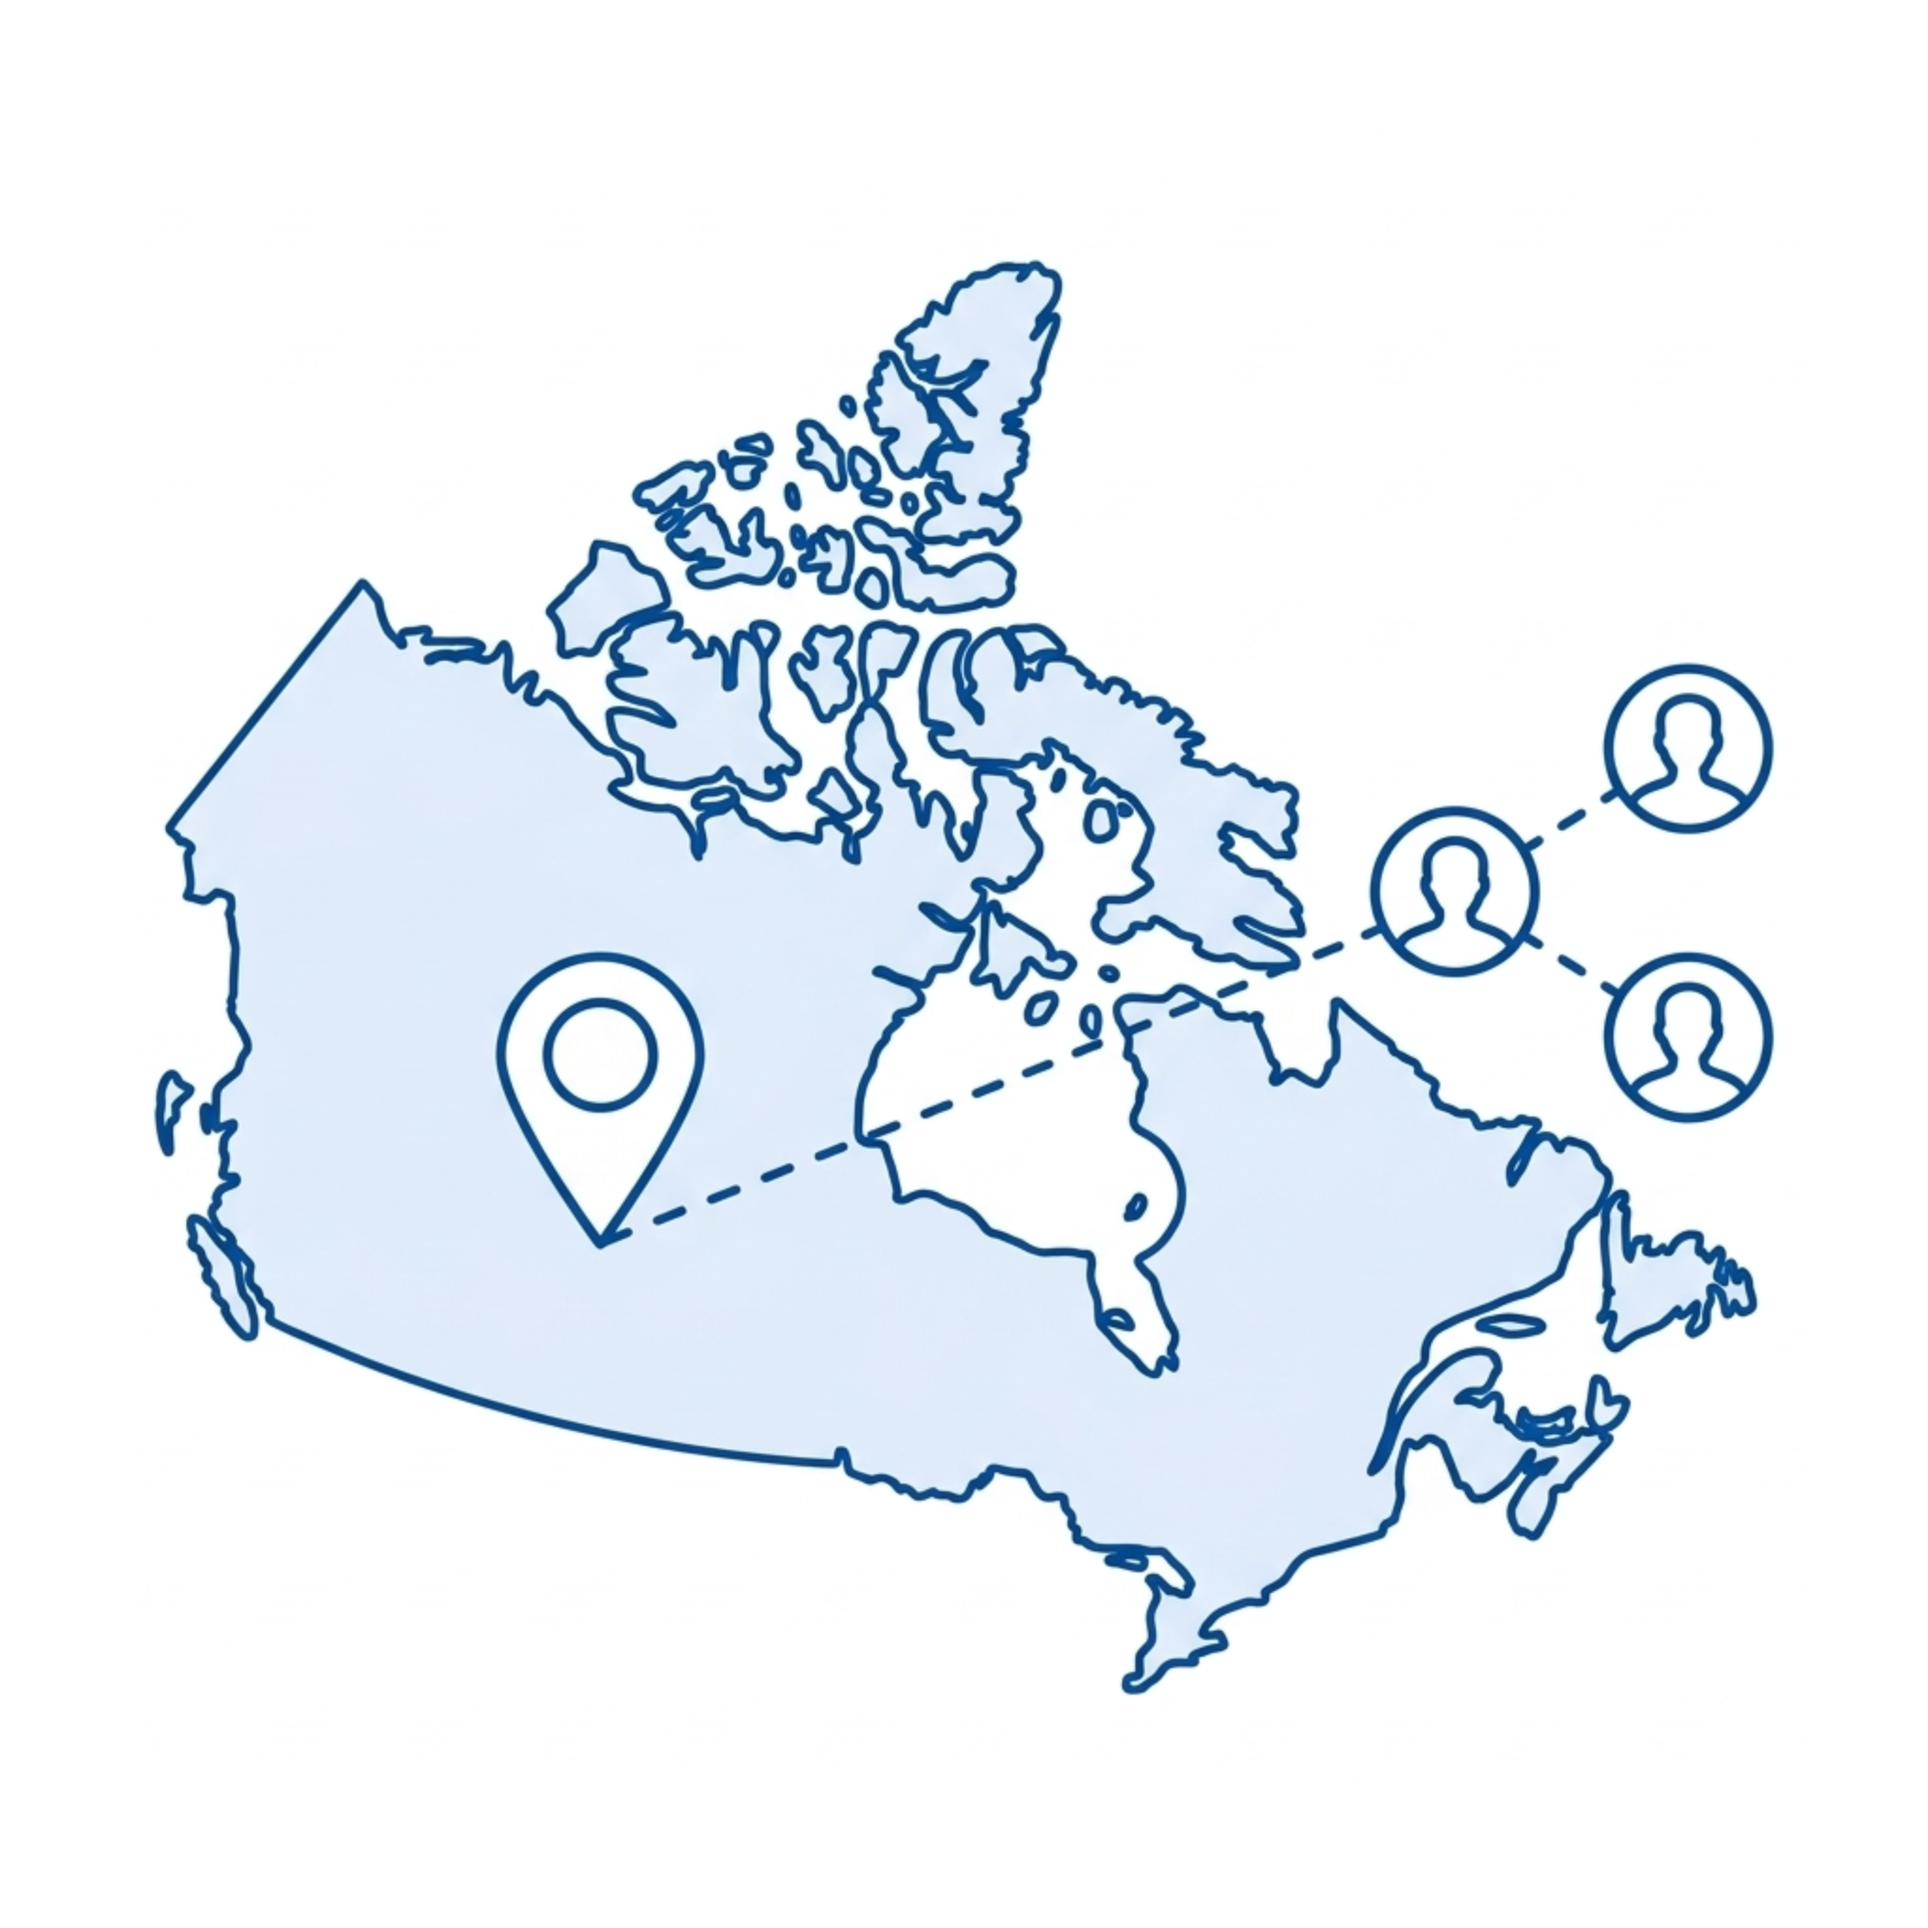
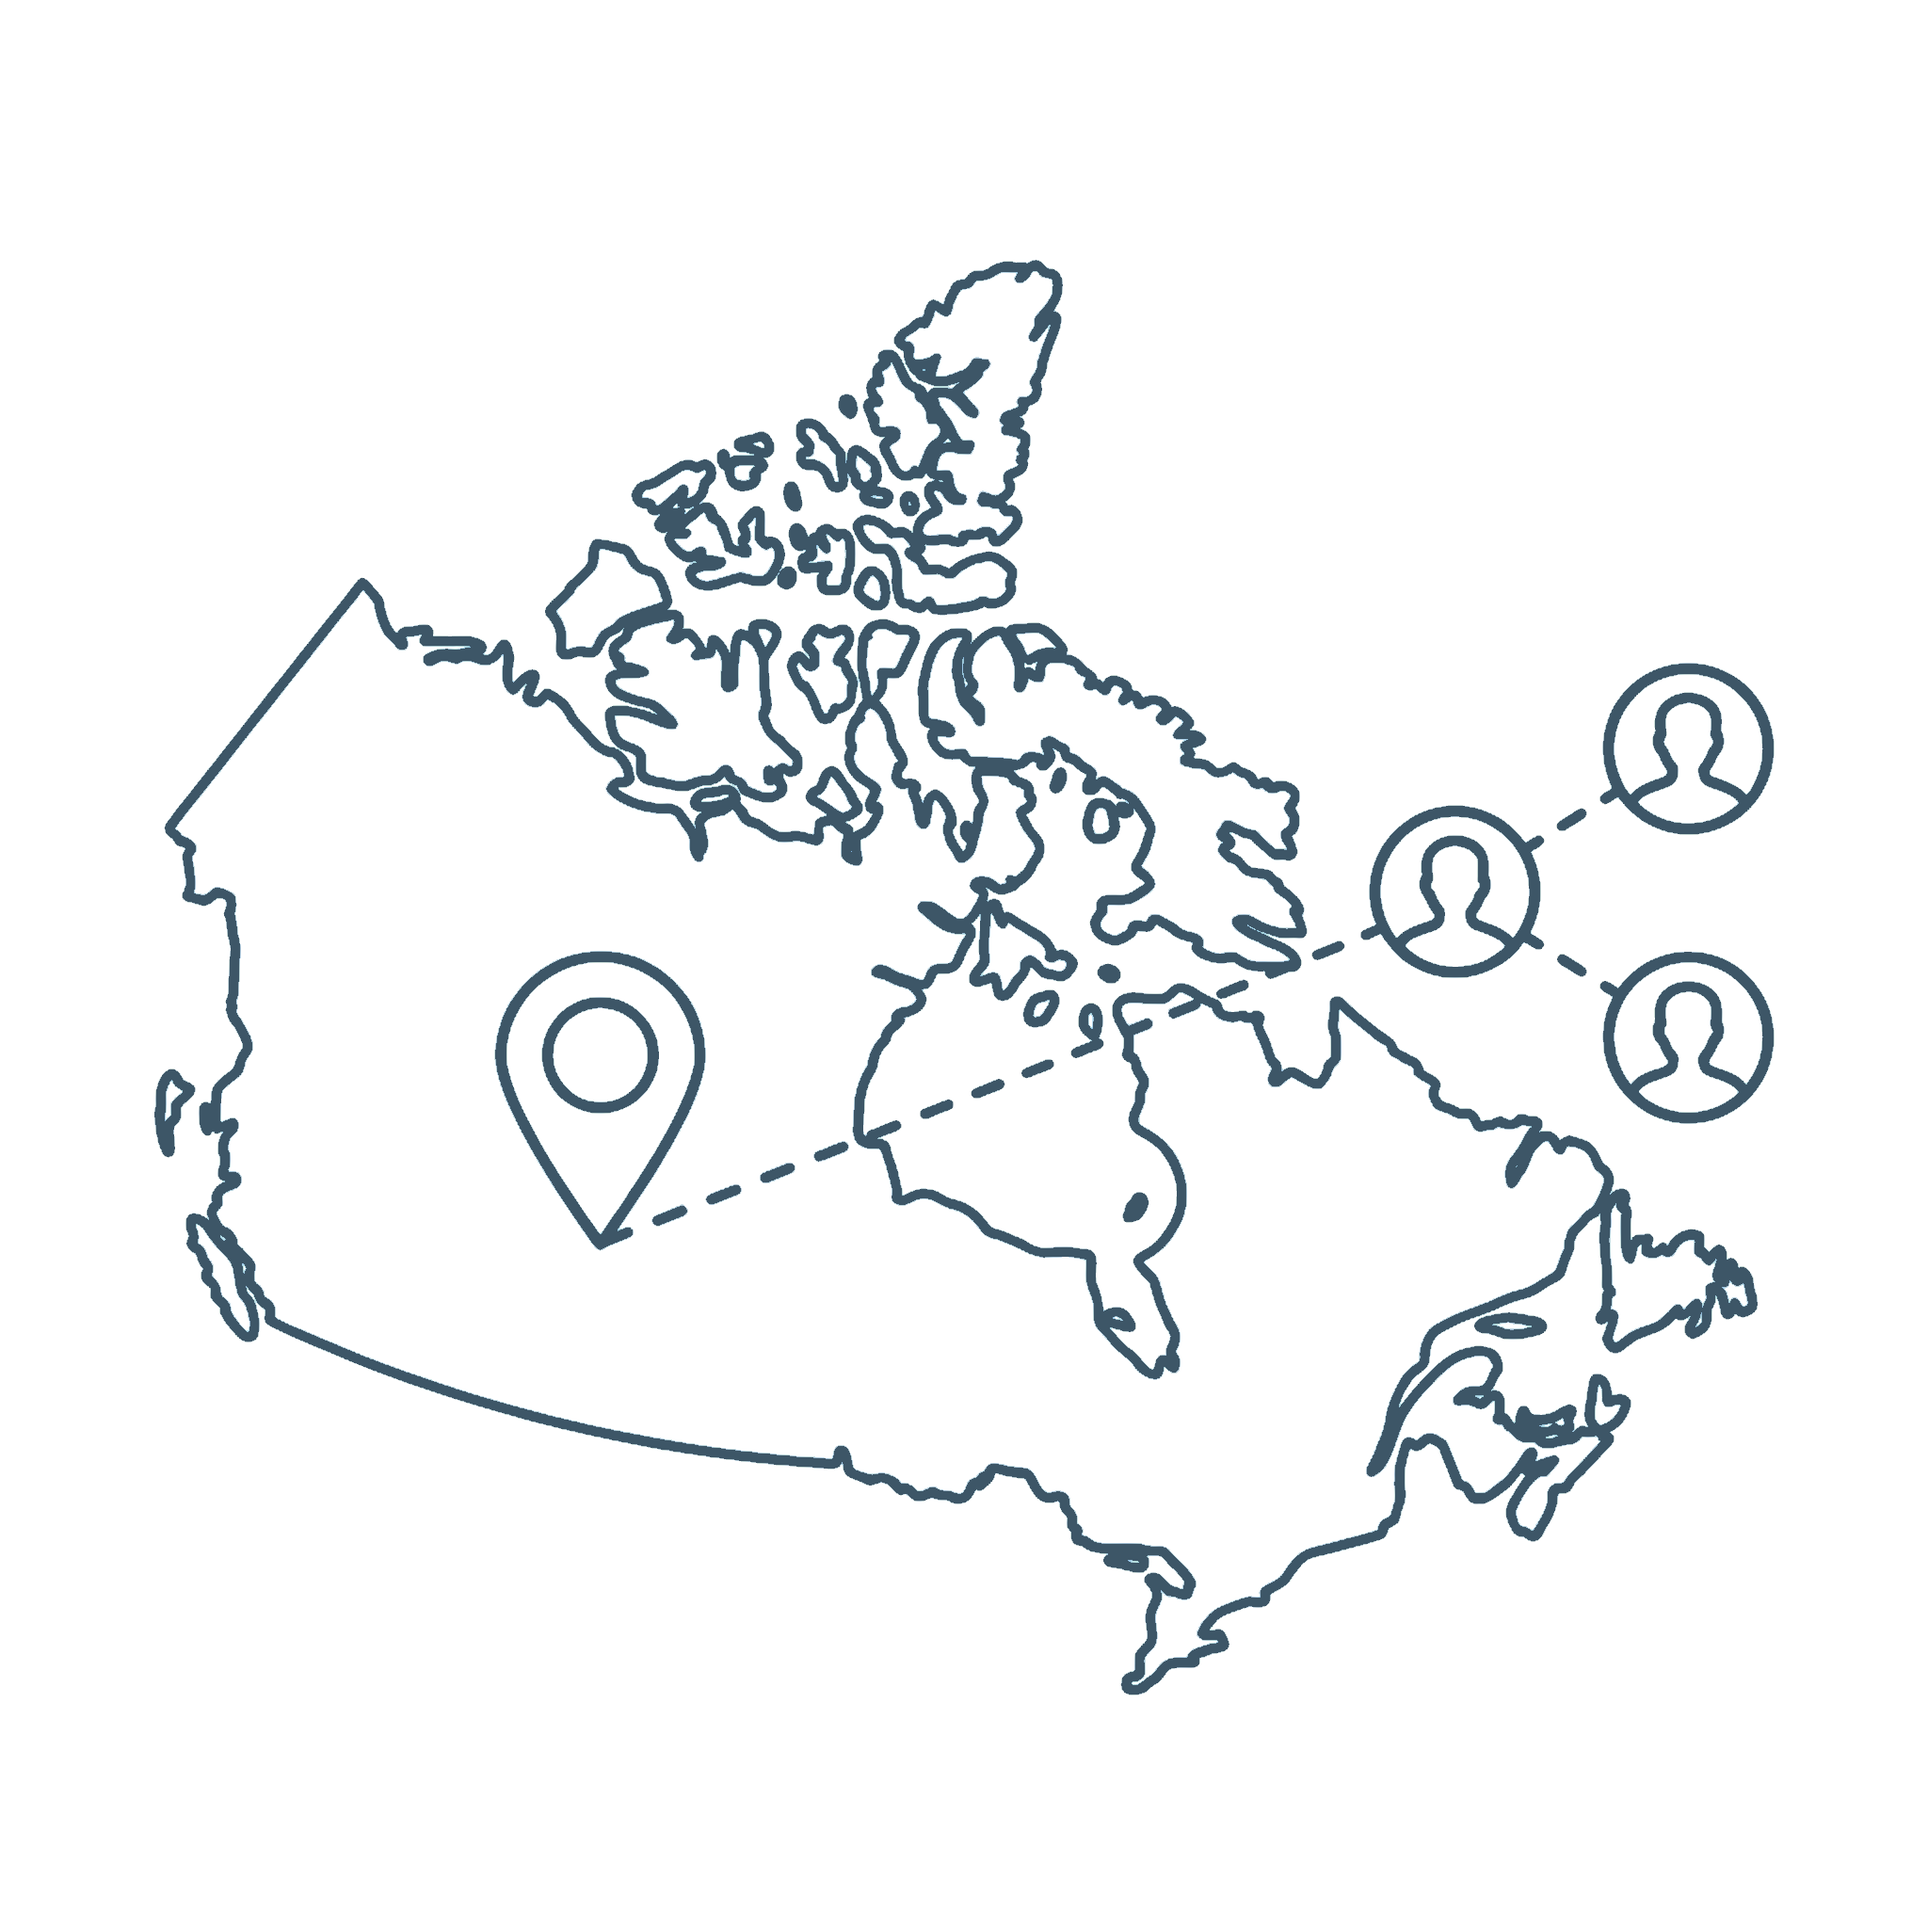
chore: update how-it-works illustrations and stats tone

Changed region(s): [[0.0625, 0.125, 0.9375, 0.875], [0.8125, 0.4688, 0.9375, 0.5938]]

diff --git a/client/src/components/map-stats.tsx b/client/src/components/map-stats.tsx
@@ -40,7 +40,7 @@ export function MapStats() {
                         <AnimatedCounter
                             end={stats.stores}
                             duration={2000}
-                            className="font-sans text-[52px] md:text-[81px] font-semibold tracking-tight tabular-nums text-[#0057B7] leading-none opacity-70"
+                            className="font-sans text-[52px] md:text-[81px] font-semibold tracking-tight tabular-nums text-[#0057B7] leading-none opacity-[0.56]"
                         />
                         <div className="flex items-center gap-2 text-[#0A2540] mt-2">
                             <Store className="w-3 h-3 md:w-3.5 md:h-3.5" strokeWidth={1.5} />
@@ -53,7 +53,7 @@ export function MapStats() {
                             end={stats.provinces}
                             duration={2000}
                             delay={200}
-                            className="font-sans text-[52px] md:text-[81px] font-semibold tracking-tight tabular-nums text-[#0057B7] leading-none opacity-70"
+                            className="font-sans text-[52px] md:text-[81px] font-semibold tracking-tight tabular-nums text-[#0057B7] leading-none opacity-[0.56]"
                         />
                         <div className="flex items-center gap-2 text-[#0A2540] mt-2">
                             <Map className="w-3 h-3 md:w-3.5 md:h-3.5" strokeWidth={1.5} />
@@ -66,7 +66,7 @@ export function MapStats() {
                             end={stats.products}
                             duration={2000}
                             delay={400}
-                            className="font-sans text-[52px] md:text-[81px] font-semibold tracking-tight tabular-nums text-[#0057B7] leading-none opacity-70"
+                            className="font-sans text-[52px] md:text-[81px] font-semibold tracking-tight tabular-nums text-[#0057B7] leading-none opacity-[0.56]"
                         />
                         <div className="flex items-center gap-2 text-[#0A2540] mt-2">
                             <Package className="w-3 h-3 md:w-3.5 md:h-3.5" strokeWidth={1.5} />
